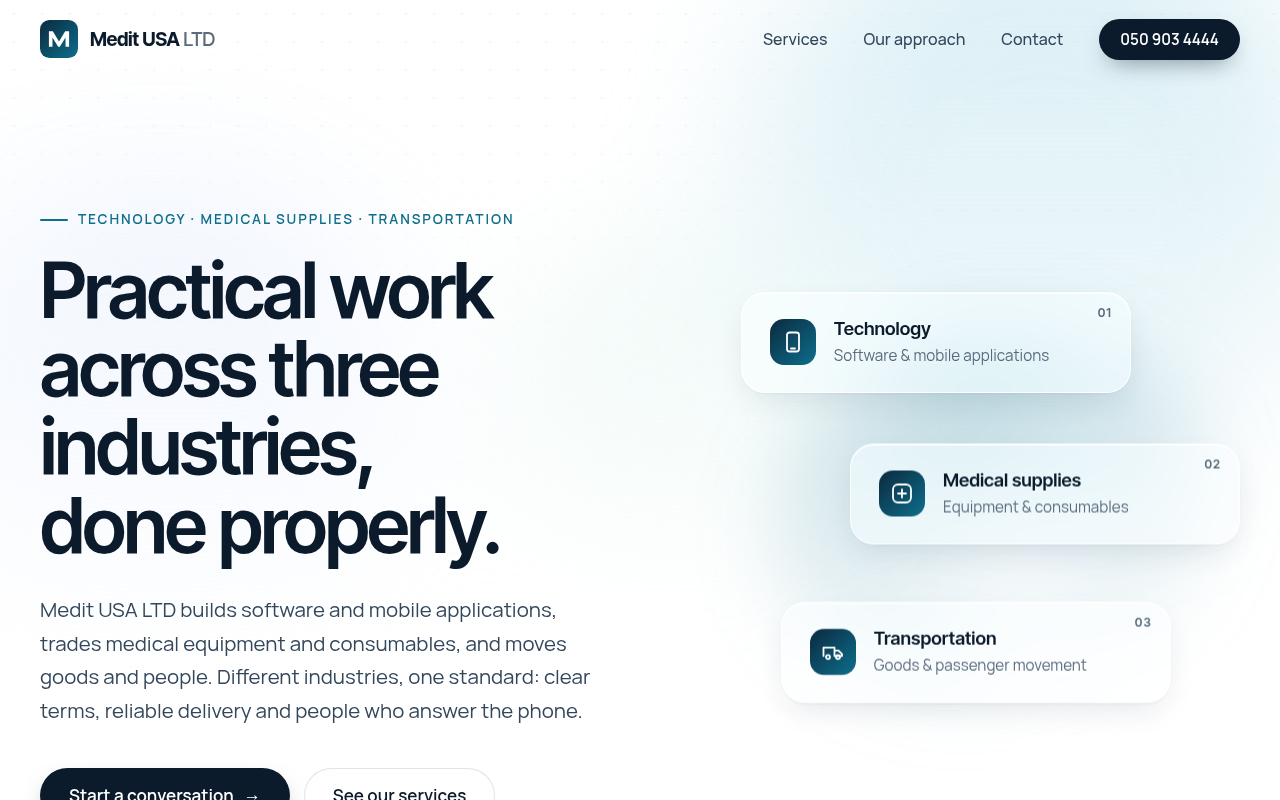
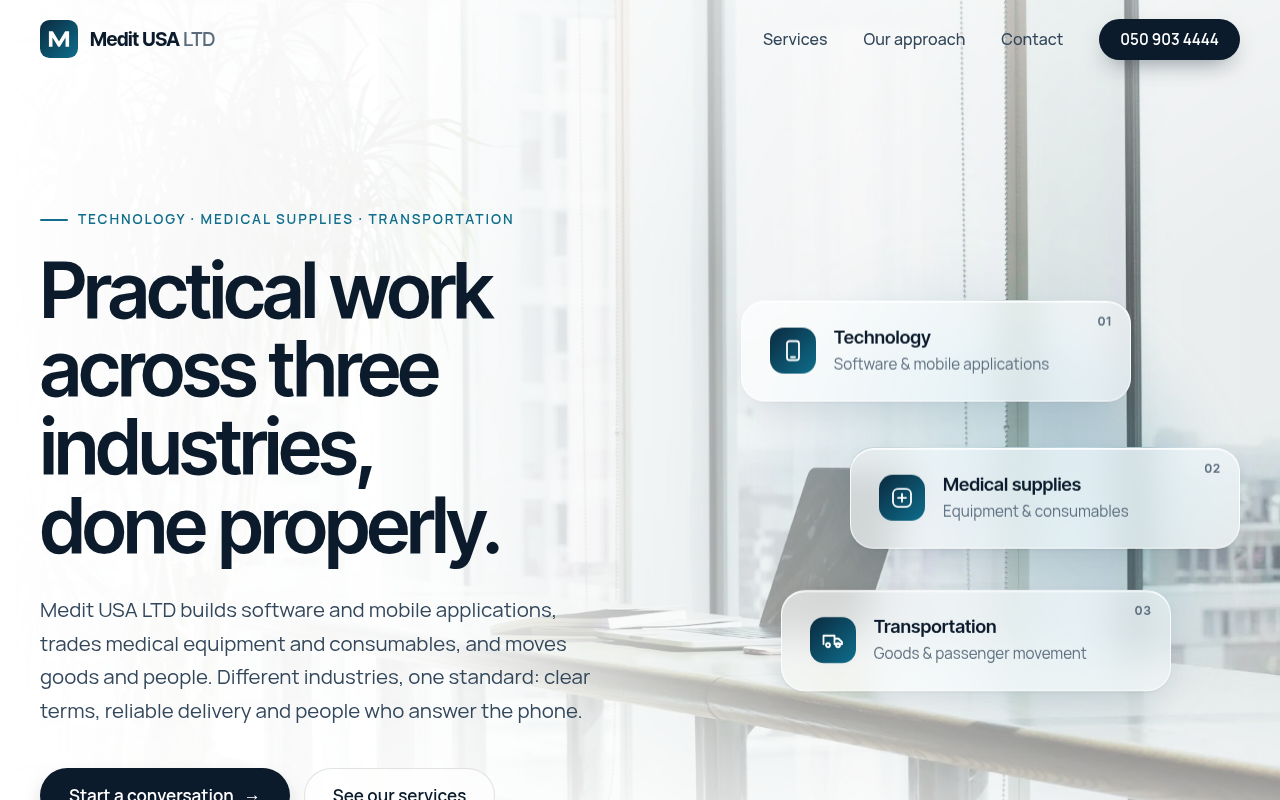
Add photo section backgrounds with light overlays, glass cards and slow zoom/parallax

Changed region(s): [[0.375, 0.0, 1.0, 1.0], [0.875, 0.0, 0.9062, 0.0312]]

diff --git a/index.html b/index.html
@@ -1,4 +1,13 @@
 <!DOCTYPE html>
+<!--
+  Photo credits (Unsplash License: free for commercial use, no attribution required):
+  images/hero-office.webp       https://images.unsplash.com/photo-1497215728101-856f4ea42174
+  images/technology-team.webp   https://images.unsplash.com/photo-1531482615713-2afd69097998
+  images/medical-supplies.webp  https://images.unsplash.com/photo-1603398938378-e54eab446dde
+  images/transport-truck.webp    https://images.unsplash.com/photo-1592838064575-70ed626d3a0e (truck badge and plate softened)
+  images/approach-city.webp     https://images.unsplash.com/photo-1486406146926-c627a92ad1ab
+  images/contact-office.webp    https://images.unsplash.com/photo-1524758631624-e2822e304c36
+-->
 <html lang="en">
 <head>
   <meta charset="utf-8">
@@ -17,6 +26,7 @@
   <link rel="preconnect" href="https://fonts.googleapis.com">
   <link rel="preconnect" href="https://fonts.gstatic.com" crossorigin>
   <link href="https://fonts.googleapis.com/css2?family=Inter+Tight:wght@500;600;700&family=Manrope:wght@400;500;600;700&display=swap" rel="stylesheet">
+  <link rel="preload" as="image" href="images/hero-office.webp" fetchpriority="high">
   <link rel="stylesheet" href="css/styles.css">
   <script>document.documentElement.classList.add("js")</script>
 </head>
@@ -55,6 +65,7 @@
 
   <main id="main">
     <section class="hero" id="top">
+      <div class="section-bg" aria-hidden="true"><img src="images/hero-office.webp" alt="" fetchpriority="high" decoding="async"></div>
       <div class="wrap hero-grid">
         <div class="hero-copy">
           <p class="eyebrow reveal">Technology &middot; Medical supplies &middot; Transportation</p>
@@ -94,54 +105,68 @@
           <h2 class="reveal" style="--d:80ms">What we do</h2>
           <p class="section-lead reveal" style="--d:160ms">Three lines of business, each run by the same principles and accountable to the same people.</p>
         </div>
-
-        <div class="service-grid">
-          <article class="glass service reveal">
-            <div class="service-top">
-              <span class="icon"><svg viewBox="0 0 24 24"><rect x="6" y="2.5" width="12" height="19" rx="2.5"/><path d="M10 18.5h4"/></svg></span>
-              <span class="num">01</span>
-            </div>
-            <h3>Technology</h3>
-            <p>We design, build and run software for everyday needs: mobile applications, web platforms and the systems behind them.</p>
-            <ul>
-              <li>Mobile applications</li>
-              <li>Web platforms and dashboards</li>
-              <li>Payment and data integrations</li>
-            </ul>
-          </article>
-
-          <article class="glass service reveal" style="--d:100ms">
-            <div class="service-top">
-              <span class="icon"><svg viewBox="0 0 24 24"><rect x="3" y="3" width="18" height="18" rx="5"/><path d="M12 8v8M8 12h8"/></svg></span>
-              <span class="num">02</span>
-            </div>
-            <h3>Medical supplies</h3>
-            <p>We source and trade medical equipment, consumables and healthcare products for hospitals, clinics, pharmacies and other providers.</p>
-            <ul>
-              <li>Medical equipment</li>
-              <li>Clinical consumables</li>
-              <li>Healthcare products</li>
-            </ul>
-          </article>
-
-          <article class="glass service reveal" style="--d:200ms">
-            <div class="service-top">
-              <span class="icon"><svg viewBox="0 0 24 24"><path d="M2.5 16V7.5h11V16M13.5 10.5h4l3.5 3.5v2h-7.5"/><circle cx="7" cy="17" r="2"/><circle cx="17" cy="17" r="2"/></svg></span>
-              <span class="num">03</span>
-            </div>
-            <h3>Transportation</h3>
-            <p>We move goods and people safely and on schedule, and handle logistics for our own supply chain and for outside clients.</p>
-            <ul>
-              <li>Goods delivery</li>
-              <li>Passenger transport</li>
-              <li>Supply-chain logistics</li>
-            </ul>
-          </article>
-        </div>
       </div>
     </section>
 
-    <section class="approach" id="approach">
+    <section class="business has-bg align-left" aria-labelledby="biz-01">
+      <div class="section-bg"><img src="images/technology-team.webp" alt="Two colleagues reviewing code on a laptop in a bright office" loading="lazy" decoding="async"></div>
+      <div class="wrap">
+        <article class="glass service reveal">
+          <div class="service-top">
+            <span class="icon"><svg viewBox="0 0 24 24"><rect x="6" y="2.5" width="12" height="19" rx="2.5"/><path d="M10 18.5h4"/></svg></span>
+            <span class="num">01 / 03</span>
+          </div>
+          <h3 id="biz-01">Technology</h3>
+          <p>We design, build and run software for everyday needs: mobile applications, web platforms and the systems behind them.</p>
+          <ul>
+              <li>Mobile applications</li>
+              <li>Web platforms and dashboards</li>
+              <li>Payment and data integrations</li>
+          </ul>
+        </article>
+      </div>
+    </section>
+
+    <section class="business has-bg align-right" aria-labelledby="biz-02">
+      <div class="section-bg"><img src="images/medical-supplies.webp" alt="A stethoscope and packaged medicines on a light surface" loading="lazy" decoding="async"></div>
+      <div class="wrap">
+        <article class="glass service reveal">
+          <div class="service-top">
+            <span class="icon"><svg viewBox="0 0 24 24"><rect x="3" y="3" width="18" height="18" rx="5"/><path d="M12 8v8M8 12h8"/></svg></span>
+            <span class="num">02 / 03</span>
+          </div>
+          <h3 id="biz-02">Medical supplies</h3>
+          <p>We source and trade medical equipment, consumables and healthcare products for hospitals, clinics, pharmacies and other providers.</p>
+          <ul>
+              <li>Medical equipment</li>
+              <li>Clinical consumables</li>
+              <li>Healthcare products</li>
+          </ul>
+        </article>
+      </div>
+    </section>
+
+    <section class="business has-bg align-left" aria-labelledby="biz-03">
+      <div class="section-bg"><img src="images/transport-truck.webp" alt="A freight truck parked under an open evening sky" loading="lazy" decoding="async"></div>
+      <div class="wrap">
+        <article class="glass service reveal">
+          <div class="service-top">
+            <span class="icon"><svg viewBox="0 0 24 24"><path d="M2.5 16V7.5h11V16M13.5 10.5h4l3.5 3.5v2h-7.5"/><circle cx="7" cy="17" r="2"/><circle cx="17" cy="17" r="2"/></svg></span>
+            <span class="num">03 / 03</span>
+          </div>
+          <h3 id="biz-03">Transportation</h3>
+          <p>We move goods and people safely and on schedule, and handle logistics for our own supply chain and for outside clients.</p>
+          <ul>
+              <li>Goods delivery</li>
+              <li>Passenger transport</li>
+              <li>Supply-chain logistics</li>
+          </ul>
+        </article>
+      </div>
+    </section>
+
+    <section class="approach has-bg" id="approach">
+      <div class="section-bg" aria-hidden="true"><img src="images/approach-city.webp" alt="" loading="lazy" decoding="async"></div>
       <div class="wrap approach-grid">
         <div class="approach-intro">
           <p class="eyebrow reveal">Our approach</p>
@@ -182,7 +207,8 @@
       </div>
     </section>
 
-    <section class="contact" id="contact">
+    <section class="contact has-bg" id="contact">
+      <div class="section-bg" aria-hidden="true"><img src="images/contact-office.webp" alt="" loading="lazy" decoding="async"></div>
       <div class="wrap">
         <div class="glass contact-panel reveal">
           <div class="contact-info">

diff --git a/css/styles.css b/css/styles.css
@@ -296,3 +296,90 @@ h2 { font-size: clamp(2.25rem, 4.4vw, 3.5rem); line-height: 1.06; font-weight: 6
 .hero { padding-bottom: clamp(56px, 8vw, 96px); }
 .services { padding-top: clamp(48px, 6vw, 88px); }
 @media (max-width: 560px) { .eyebrow { letter-spacing: .1em; font-size: .78rem; } }
+
+/* ---------- Photo section backgrounds ---------- */
+.contact::before, .services::before { display: none; }
+.has-bg, .hero { isolation: isolate; }
+.section-bg { position: absolute; inset: 0; z-index: -2; overflow: hidden; }
+.section-bg img {
+  width: 100%; height: 100%; object-fit: cover; display: block;
+  transform: translate3d(0, var(--py, 0px), 0) scale(var(--sc, 1.2));
+  transition: transform 2.6s var(--ease);
+  will-change: transform;
+}
+.has-bg.in-view .section-bg img { --sc: 1.1; }
+.section-bg::after { content: ""; position: absolute; inset: 0; }
+
+/* Hero */
+.hero { position: relative; overflow: hidden; }
+.hero .section-bg img { object-position: 70% 40%; animation: kenburns 28s ease-in-out infinite alternate; transform: none; }
+.hero .section-bg::after {
+  background:
+    linear-gradient(90deg, #fff 0%, rgba(255,255,255,0.94) 34%, rgba(255,255,255,0.55) 62%, rgba(255,255,255,0.15) 100%),
+    linear-gradient(180deg, rgba(255,255,255,0.35) 0%, rgba(255,255,255,0) 30%, rgba(255,255,255,0) 72%, #fff 100%);
+}
+@keyframes kenburns { from { transform: scale(1.04) translate3d(0,0,0); } to { transform: scale(1.14) translate3d(-1.5%, -1%, 0); } }
+.hero .stack-card { background: rgba(255,255,255,0.62); }
+
+/* Services intro */
+.services { padding-bottom: clamp(32px, 4vw, 56px); }
+
+/* Business bands */
+.business { position: relative; min-height: clamp(560px, 72vh, 720px); display: flex; align-items: center; padding: clamp(72px, 9vw, 120px) 0; overflow: hidden; }
+.business + .business { margin-top: 0; }
+.business .wrap { display: flex; }
+.business.align-right .wrap { justify-content: flex-end; }
+.business .service { width: min(100%, 520px); padding: clamp(32px, 4vw, 48px); background: rgba(255,255,255,0.66); }
+.business .service:hover { background: rgba(255,255,255,0.78); }
+.business .service h3 { font-size: clamp(1.9rem, 3vw, 2.5rem); }
+.business .service p { font-size: 1.125rem; color: var(--ink-2); }
+.business.align-left .section-bg::after {
+  background:
+    linear-gradient(90deg, rgba(255,255,255,0.88) 0%, rgba(255,255,255,0.55) 38%, rgba(255,255,255,0.05) 70%, rgba(255,255,255,0) 100%),
+    linear-gradient(180deg, #fff 0%, rgba(255,255,255,0) 14%, rgba(255,255,255,0) 86%, #fff 100%);
+}
+.business.align-right .section-bg::after {
+  background:
+    linear-gradient(270deg, rgba(255,255,255,0.88) 0%, rgba(255,255,255,0.55) 38%, rgba(255,255,255,0.05) 70%, rgba(255,255,255,0) 100%),
+    linear-gradient(180deg, #fff 0%, rgba(255,255,255,0) 14%, rgba(255,255,255,0) 86%, #fff 100%);
+}
+.business.align-right .section-bg img { object-position: 30% 50%; }
+
+/* Approach */
+.approach .section-bg::after { background: linear-gradient(180deg, #fff 0%, rgba(255,255,255,0.86) 18%, rgba(255,255,255,0.8) 82%, #fff 100%); }
+.approach .principles { background: rgba(255,255,255,0.6); border: 1px solid var(--glass-border); border-radius: var(--radius);
+  box-shadow: var(--shadow), inset 0 1px 0 rgba(255,255,255,0.9);
+  -webkit-backdrop-filter: blur(20px) saturate(160%); backdrop-filter: blur(20px) saturate(160%);
+  padding: 12px clamp(24px, 3vw, 40px); }
+.approach .principles li:first-child { padding-top: 30px; }
+.approach .principles li:last-child { border-bottom: 0; }
+
+/* Contact */
+.contact { padding-top: clamp(80px, 10vw, 140px); }
+.contact .section-bg::after { background: linear-gradient(180deg, #fff 0%, rgba(255,255,255,0.55) 22%, rgba(255,255,255,0.45) 70%, #fff 100%); }
+.contact-panel { background: rgba(255,255,255,0.72); }
+.contact-panel::before { opacity: .35; }
+
+@media (max-width: 960px) {
+  .business { min-height: 0; padding: 0 0 56px; flex-direction: column; align-items: stretch; }
+  .business .section-bg { position: relative; inset: auto; height: 320px; z-index: 0; }
+  .business .section-bg::after, .business.align-right .section-bg::after { background: linear-gradient(180deg, rgba(255,255,255,0.7) 0%, rgba(255,255,255,0) 22%, rgba(255,255,255,0) 60%, #fff 100%); }
+  .business .wrap { margin-top: -110px; position: relative; z-index: 1; }
+  .business.align-right .wrap { justify-content: flex-start; }
+  .business .service { width: 100%; max-width: 640px; }
+  .hero .section-bg::after { background: linear-gradient(180deg, rgba(255,255,255,0.9) 0%, rgba(255,255,255,0.86) 55%, rgba(255,255,255,0.6) 80%, #fff 100%); }
+}
+@media (max-width: 560px) {
+  .business .section-bg { height: 260px; }
+  .business .wrap { margin-top: -80px; }
+}
+@media (prefers-reduced-motion: reduce) {
+  .section-bg img { transform: none !important; --sc: 1; }
+}
+.business.align-left .section-bg img[src*="transport"] { object-position: 30% 60%; }
+.business .section-bg img[src*="technology"] { object-position: 60% 20%; }
+@media (max-width: 560px) {
+  .business .section-bg { height: 300px; }
+  .business .wrap { margin-top: -64px; }
+  .business .section-bg img[src*="transport"] { object-position: 62% 60%; }
+}

diff --git a/js/main.js b/js/main.js
@@ -53,6 +53,39 @@
     items.forEach(function (el) { io.observe(el); });
   }
 
+
+  // Photo backgrounds: slow zoom when in view + light parallax
+  var bgSections = document.querySelectorAll(".has-bg");
+  if (!reduce && "IntersectionObserver" in window) {
+    var visible = new Set();
+    var bio = new IntersectionObserver(function (entries) {
+      entries.forEach(function (e) {
+        if (e.isIntersecting) { e.target.classList.add("in-view"); visible.add(e.target); }
+        else visible.delete(e.target);
+      });
+      tick();
+    }, { threshold: 0.05 });
+    bgSections.forEach(function (s) { bio.observe(s); });
+    var ticking = false;
+    function tick() {
+      if (ticking) return; ticking = true;
+      requestAnimationFrame(function () {
+        var vh = window.innerHeight;
+        visible.forEach(function (s) {
+          var r = s.getBoundingClientRect();
+          var progress = (r.top + r.height / 2 - vh / 2) / (vh + r.height);
+          var img = s.querySelector(".section-bg img");
+          if (img) img.style.setProperty("--py", (progress * -30).toFixed(1) + "px");
+        });
+        ticking = false;
+      });
+    }
+    window.addEventListener("scroll", tick, { passive: true });
+    window.addEventListener("resize", tick);
+  } else {
+    bgSections.forEach(function (s) { s.classList.add("in-view"); });
+  }
+
   // Contact form -> visitor's email app
   if (form) {
     form.addEventListener("submit", function (e) {

diff --git a/README.md b/README.md
@@ -5,3 +5,16 @@ Static website for Medit USA LTD, served by GitHub Pages at https://meditusaltd.
 Plain HTML, CSS and JavaScript — no build step. Open `index.html` or serve the folder with any static server.
 
 Contact email (`info@meditusaltd.com`) is set in `index.html` and in `js/main.js` (`CONTACT_EMAIL`).
+
+## Photo credits
+
+Section background photos are from Unsplash (Unsplash License: free for commercial use, no attribution required). Stored as optimised WebP in `images/`.
+
+| File | Source |
+| --- | --- |
+| hero-office.webp | https://images.unsplash.com/photo-1497215728101-856f4ea42174 |
+| technology-team.webp | https://images.unsplash.com/photo-1531482615713-2afd69097998 |
+| medical-supplies.webp | https://images.unsplash.com/photo-1603398938378-e54eab446dde |
+| transport-truck.webp | https://images.unsplash.com/photo-1592838064575-70ed626d3a0e (truck badge and plate softened) |
+| approach-city.webp | https://images.unsplash.com/photo-1486406146926-c627a92ad1ab |
+| contact-office.webp | https://images.unsplash.com/photo-1524758631624-e2822e304c36 |
